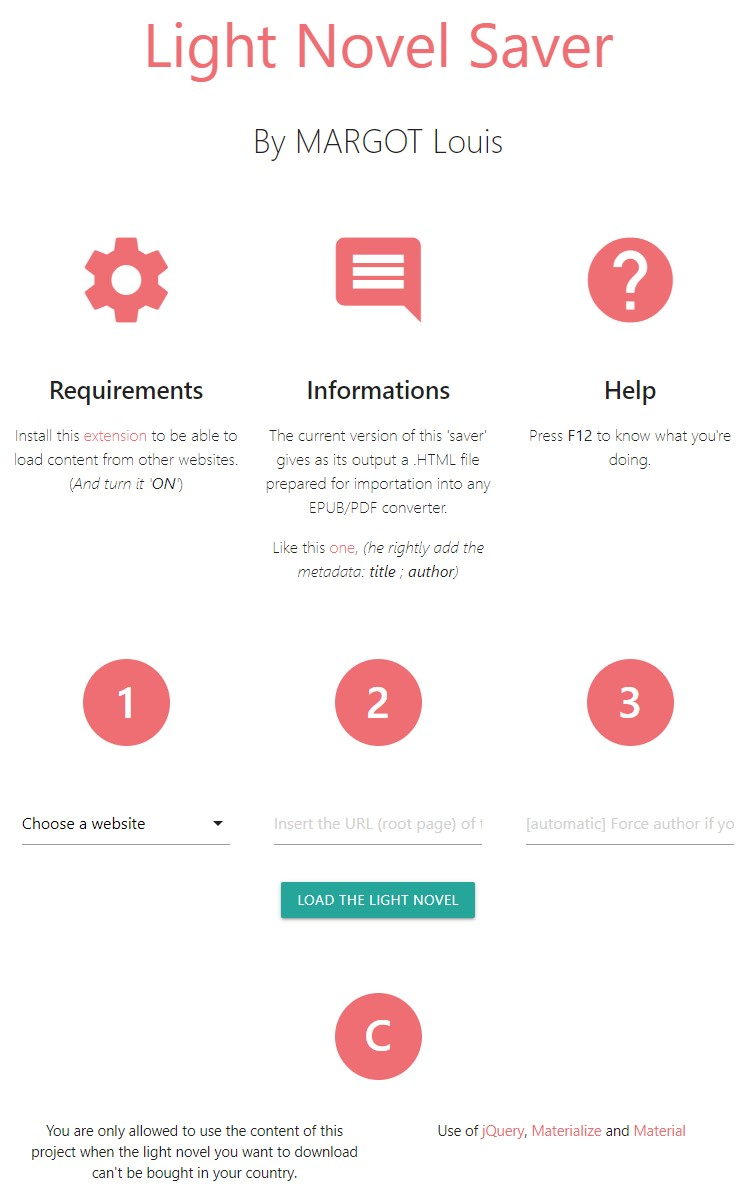
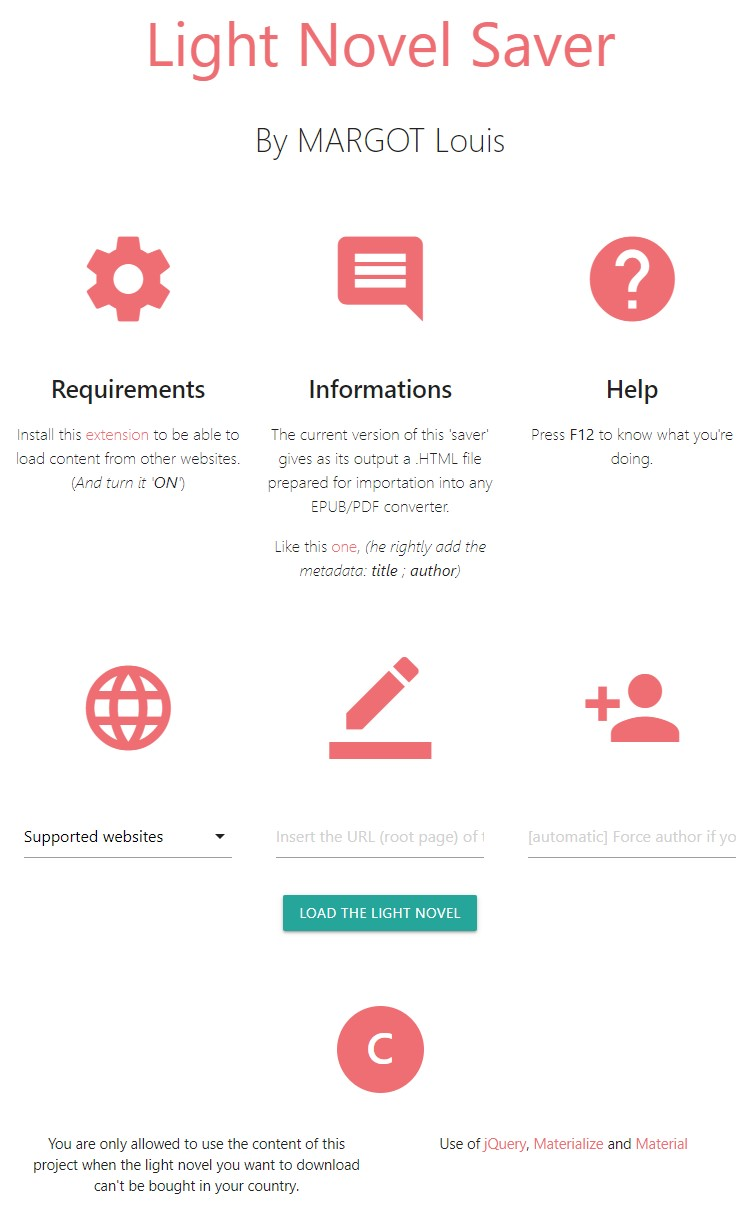
Optimization and graphical changes

diff --git a/index.html b/index.html
@@ -116,29 +116,29 @@
 			</div>
 		</section>
 
-		<!-- Form -->
+		<!-- Select - website -->
+		<div class="d-none">
+			<select id="ln_type" class="validate">
+				<option value="none" disabled="disabled" selected="selected"
+				>Choose a website</option>
+				<option value="lightnovelstranslations.com"
+				>lightnovelstranslations.com</option>
+				<option value="www.lightnovelworld.com"
+				>www.lightnovelworld.com</option>
+				<option value="www.novelpub.com"
+				>www.novelpub.com</option>
+			</select>
+		</div>
+
 		<section class="row">
-			<!-- Choice of the website -->
+			<!-- List of supported websites -->
 			<div class="col s12 col-div-3">
-				<div class="center ln_form">
-					<span>1</span>
+				<div class="center ln_info">
+					<i class="material-icons">language</i>
 					<div class="input-field col s12">
-						<select
-							id="ln_type"
-							class="validate"
-							onchange="display_toast(
-								'Insert the URL (root page) of the Light Novel'
-								+'<br>\'https\:\/\/www.lightnovelworld.com\/novel\/returnees-life-report\''
-							);"
-						>
+						<select id="ln_supported" class="validate">
 							<option value="none" disabled="disabled" selected="selected"
-							>Choose a website</option>
-							<option value="lightnovelstranslations.com"
-							>lightnovelstranslations.com</option>
-							<option value="www.lightnovelworld.com"
-							>www.lightnovelworld.com</option>
-							<option value="www.novelpub.com"
-							>www.novelpub.com</option>
+							>Supported websites</option>
 						</select>
 					</div>
 				</div>
@@ -146,8 +146,8 @@
 
 			<!-- Input to insert the URL -->
 			<div class="col s12 col-div-3">
-				<div class="center ln_form">
-					<span>2</span>
+				<div class="center ln_info">
+					<i class="material-icons">border_color</i>
 					<div class="input-field col s12">
 						<input
 							type="text"
@@ -166,8 +166,8 @@
 			<!-- Input to insert the author -->
 			<!-- 'name' for the autocomplete -->
 			<div class="col s12 col-div-3">
-				<div class="center ln_form">
-					<span>3</span>
+				<div class="center ln_info">
+					<i class="material-icons">person_add</i>
 					<div class="input-field col s12">
 						<input
 							type="text"

diff --git a/local/js/main.js b/local/js/main.js
@@ -20,10 +20,23 @@ const ln_lst = {
 	}
 };
 
-// The enable the select
+// Fill #ln_supported
+let ln_type = document.getElementById('ln_type');
+for (let i = 0; i < ln_type.length; i++) {
+	if (ln_type.options[i].value != 'none') {
+		let option = document.createElement('OPTION');
+		option.innerHTML = ln_type.options[i].innerHTML;
+		option.setAttribute('value', ln_type.options[i].value);
+		document.getElementById('ln_supported').appendChild(option);
+	}
+}
+
+let ln_supported = document.getElementById('ln_supported');
+
+// To enable the select
 // Necessary because of Materialize
 $(document).ready(function(){
-	$('select').formSelect();
+	$('#ln_supported').formSelect();
 });
 
 // When cliking on the button 'LOAD'
@@ -64,7 +77,7 @@ function ln_load() {
 		if (document.getElementById('ln_url').value == "")
 			display_toast("Insert an URL");
 		else
-			display_toast("Insert a page of the chosen website");
+			display_toast("This website isn't implemented yet");
 	}
 }
 
@@ -219,14 +232,14 @@ function autocomplete_ln_type() {
 	let ln_type = document.getElementById('ln_type');
 	let ln_url = document.getElementById('ln_url').value;
 
-	for (let i = 1; i < ln_type.length; i++) {
+	for (let i = 0; i < ln_type.length; i++) {
+		// Unset the other
+		ln_type.options[i].removeAttribute('selected');
+
 		console.log(ln_url.includes(ln_type.options[i].innerHTML));
 		if (ln_url.includes(ln_type.options[i].innerHTML)) {
-			// Set the value of the select
-			ln_type.value = ln_type.options[i].innerHTML;
-			
-			// Re-initialize material-select
-			$('select').formSelect();
+			// Set the option
+			ln_type.options[i].setAttribute('selected', 'selected');
 			break;
 		}
 	}
